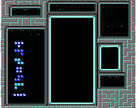
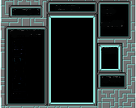
fixed apperance

Changed region(s): [[0.0882, 0.5278, 0.1765, 0.8333], [0.0882, 0.3611, 0.1765, 0.5278], [0.0882, 0.8611, 0.2059, 0.9167]]

diff --git a/PiecePane.java b/PiecePane.java
@@ -61,7 +61,93 @@ public class PiecePane extends Pane {
         animation.play(); // Start animation
         speed = animation.getRate()*5;//was *1
         animation.setRate(speed);
-        System.out.println(speed);
+        // System.out.println(speed);
+        Rectangle[] tempV = blocks.vertical();
+        Rectangle[] tempT = blocks.tBlock();
+        Rectangle[] tempO = blocks.oBlock();
+        Rectangle[] tempS = blocks.sBlock();
+        Rectangle[] tempZ = blocks.zBlock();
+        Rectangle[] tempL = blocks.lBlock();
+        Rectangle[] tempJ = blocks.jBlock();
+
+        for(Rectangle r : tempT){
+            if(!(r.equals(tempT[1]))){
+                r.setX(100+(r.getX()-tempT[1].getX()));
+                r.setY(180+(r.getY()-tempT[1].getY()));
+            }
+        }
+        tempT[1].setX(100);
+        tempT[1].setY(180);
+
+        for(Rectangle r : tempJ){
+            if(!(r.equals(tempJ[1]))){
+                r.setX(100+(r.getX()-tempJ[1].getX()));
+                r.setY(225+(r.getY()-tempJ[1].getY()));
+            }
+        }
+        tempJ[1].setX(100);
+        tempJ[1].setY(225);
+
+        for(Rectangle r : tempZ){
+            if(!(r.equals(tempZ[1]))){
+                r.setX(100+(r.getX()-tempZ[1].getX()));
+                r.setY(270+(r.getY()-tempZ[1].getY()));
+            }
+        }
+        tempZ[1].setX(100);
+        tempZ[1].setY(270);
+
+        for(Rectangle r : tempO){
+            if(!(r.equals(tempO[1]))){
+                r.setX(100+(r.getX()-tempO[1].getX()));
+                r.setY(315+(r.getY()-tempO[1].getY()));
+            }
+        }
+        tempO[1].setX(100);
+        tempO[1].setY(315);
+
+        for(Rectangle r : tempS){
+            if(!(r.equals(tempS[1]))){
+                r.setX(100+(r.getX()-tempS[1].getX()));
+                r.setY(360+(r.getY()-tempS[1].getY()));
+            }
+        }
+        tempS[1].setX(100);
+        tempS[1].setY(360);
+
+        for(Rectangle r : tempL){
+            if(!(r.equals(tempL[1]))){
+                r.setX(100+(r.getX()-tempL[1].getX()));
+                r.setY(405+(r.getY()-tempL[1].getY()));
+            }
+        }
+        tempL[1].setX(100);
+        tempL[1].setY(405);
+
+        for(Rectangle r : tempV){
+            if(!(r.equals(tempV[1]))){
+                r.setX(100+(r.getX()-tempV[1].getX()));
+                r.setY(450+(r.getY()-tempV[1].getY()));
+            }
+        }
+        tempV[1].setX(100);
+        tempV[1].setY(450);
+
+        rotate(tempT);
+        rotate(tempT);
+        rotate(tempJ);
+        rotate(tempJ);
+        rotate(tempJ);
+        rotate(tempL);
+
+        getChildren().addAll(tempT);
+        getChildren().addAll(tempJ);
+        getChildren().addAll(tempZ);
+        getChildren().addAll(tempO);
+        getChildren().addAll(tempS);
+        getChildren().addAll(tempL);
+        getChildren().addAll(tempV);
+
         Text t = new Text (70, 68, "A-TYPE");//was 83
         t.setFill(Color.WHITE);
         t.setStyle("-fx-font: 35 arial;");
@@ -104,7 +190,7 @@ public class PiecePane extends Pane {
         level.setFill(Color.WHITE);
         level.setStyle("-fx-font: 30 arial;");
         getChildren().add(level);
-        System.out.println(nexts.size());
+        // System.out.println(nexts.size());
     }
 
     public void play() {
@@ -203,7 +289,11 @@ public class PiecePane extends Pane {
             r.setY(r.getY()+heightDifference-20);//was -20
         }
         for(Rectangle l : rArray.get(rArray.size()-1)){
-            l.setOpacity(1);
+            for(Rectangle r : rArray.get(rArray.size()-1)){
+                if(r.getY()>84){
+                    r.setOpacity(1);
+                }
+            }
         }
         end();
     }
@@ -225,13 +315,13 @@ public class PiecePane extends Pane {
         //rArray.add(blocks.random())
         if(rArray.size()>1){
             for(Rectangle r : rArray.get(rArray.size()-1)){
-                System.out.print(r.getY());
+                // System.out.print(r.getY());
                 if(r.getY()<getHeight()-46-400){
                     Text ended = new Text (getWidth()/2-50, getHeight()/2+20, "GameOver");
                     ended.setFill(Color.WHITE);
                     ended.setStyle("-fx-font: 35 arial;");
                     getChildren().add(ended);
-                    gamesOver();;
+                    gamesOver();
                 }
             }
         }
@@ -246,7 +336,7 @@ public class PiecePane extends Pane {
             tempRect[i].setStroke(Color.BLACK);
         }
 
-        System.out.println(nexts.size());
+        // System.out.println(nexts.size());
         if(nexts.size()>0){
             getChildren().removeAll(nexts.get(nexts.size()-1)); 
             nexts.remove(nexts.get(nexts.size()-1));
@@ -391,6 +481,43 @@ public class PiecePane extends Pane {
                 }
             }
         }
+    }
+
+    public void rotate(Rectangle[] rect){
+        // boolean nor = false;
+        for(Rectangle r : rect){
+            if(!(r.equals(rect[1]))){
+                double xShift = rect[1].getX()-r.getX();
+                double yShift = rect[1].getY()-r.getY();
+                r.setY(rect[1].getY()-xShift);
+                r.setX(rect[1].getX()+yShift);
+                // if(r.getX()>getWidth()/2+100|| r.getX()<getWidth()/2-80){
+                //     nor = true;
+                // }
+                // if(r.getY()>getHeight()-46){
+                //     nor = true;
+                // }
+                // for(Rectangle[] l : rArray){
+                //     if(!(l.equals(rArray.get(rArray.size()-1)))){
+                //         for(Rectangle t : l){
+                //             if(r.getBoundsInParent().intersects(t.getBoundsInParent())){
+                //                 nor = true;
+                //             }
+                //         }
+                //     }
+                // }
+            }
+        }
+        // if(nor){
+        //     for(Rectangle r : rArray.get(rArray.size()-1)){
+        //         if(!(r.equals(rArray.get(rArray.size()-1)[1]))){
+        //             double xShift = rArray.get(rArray.size()-1)[1].getX()-r.getX();
+        //             double yShift = rArray.get(rArray.size()-1)[1].getY()-r.getY();
+        //             r.setY(rArray.get(rArray.size()-1)[1].getY()+xShift);
+        //             r.setX(rArray.get(rArray.size()-1)[1].getX()-yShift);
+        //         }
+        //     }
+        // }
     }
 
     public void rotation(){ 
